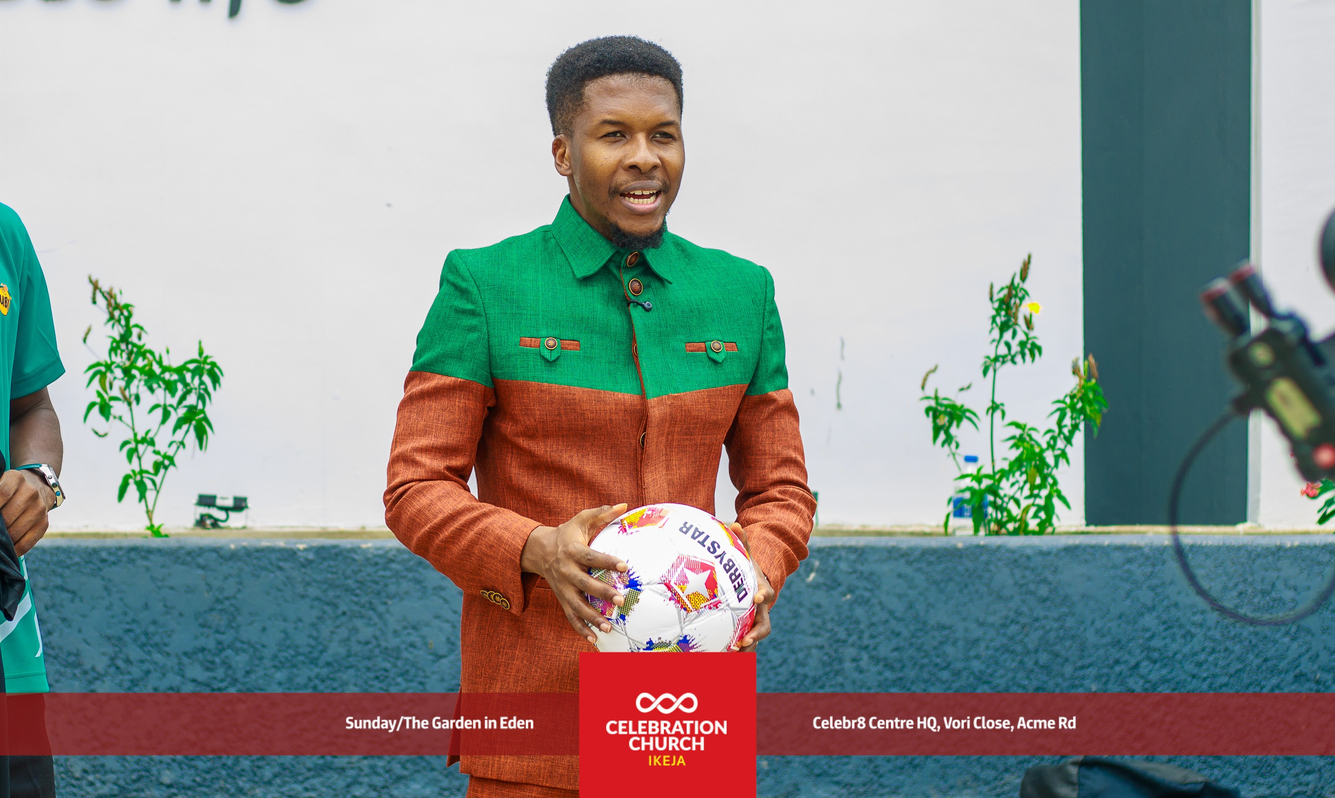
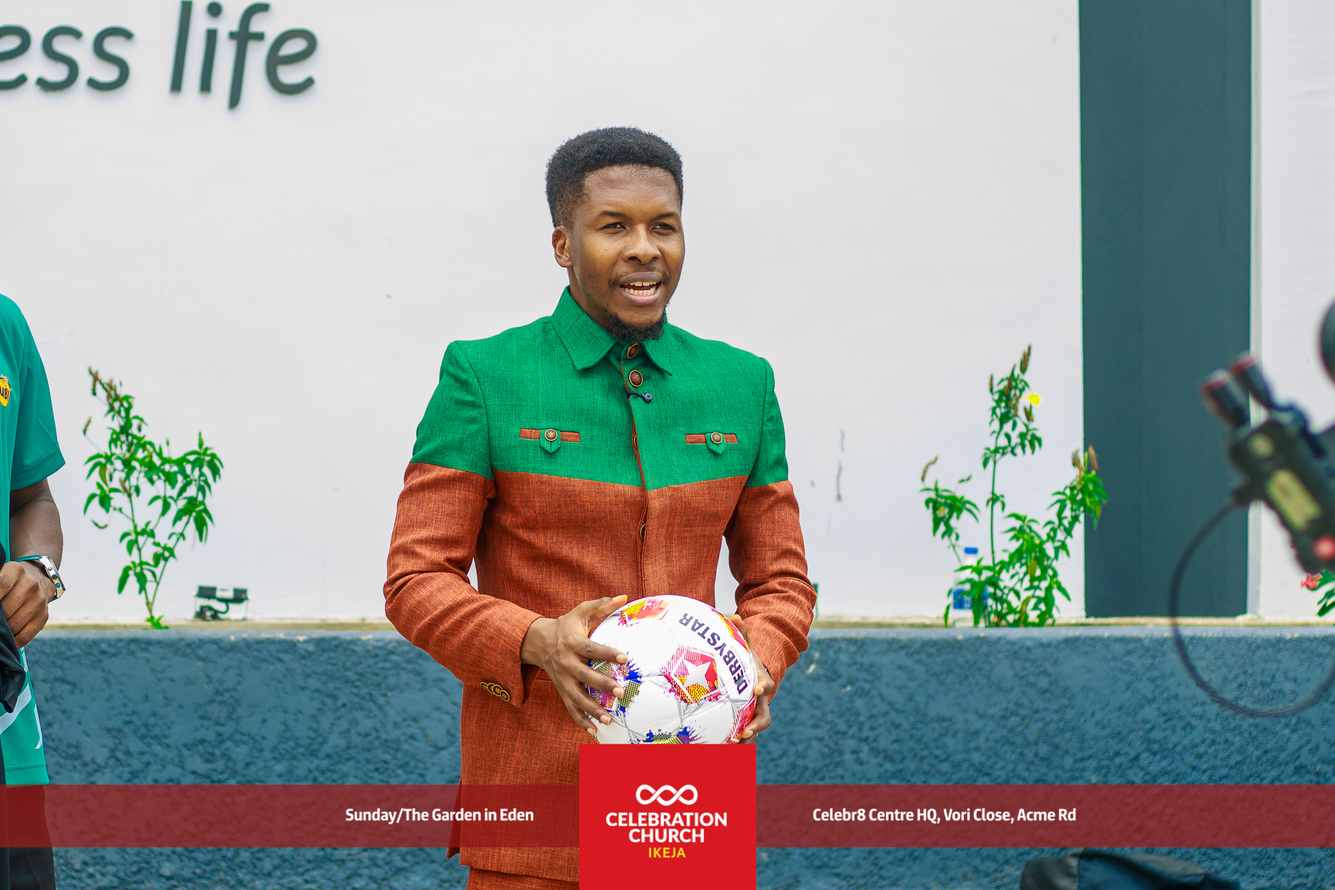
fix:changes

diff --git a/src/pages/Index.tsx b/src/pages/Index.tsx
@@ -351,7 +351,7 @@ function HeroCarousel({
           <img
             src={s.image}
             alt={s.title}
-            className="w-full h-full object-cover sm:object-top"
+            className="w-full h-full object-cover object-top sm:object-top "
           />
           <div className="absolute inset-0 bg-gradient-to-r from-black/60 via-black/40 to-transparent" />
         </div>
